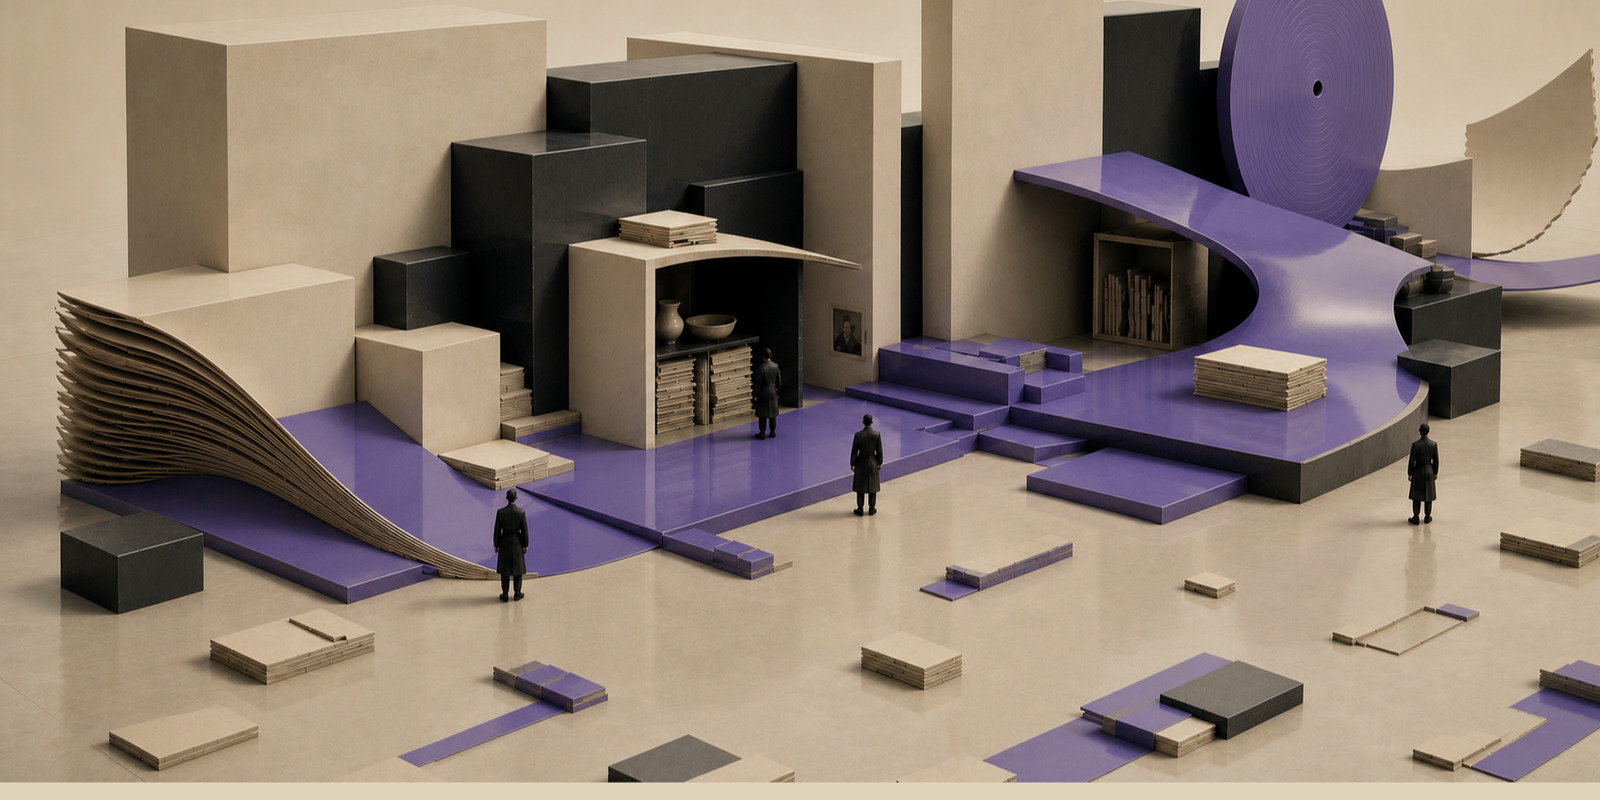
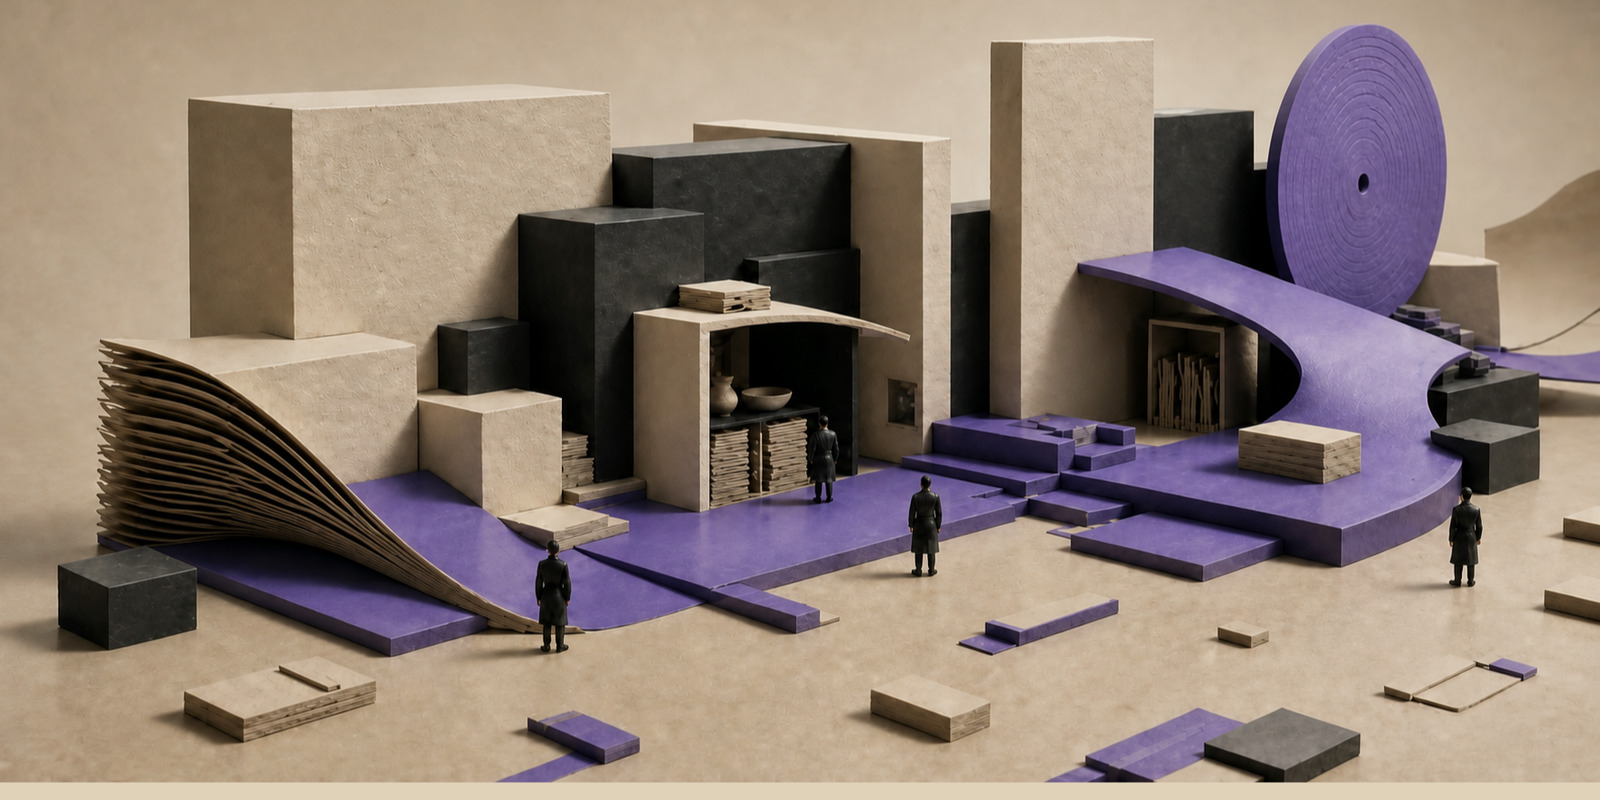
Let the final Series 05 material world become the public cover
The owner selected the tactile wide v11 panorama as the final Series 05 banner. Replace only the series cover, advance its cache key, and keep the three post heroes unchanged.

Constraint: Deploy on the exact current remote main without mixing other publication work.

Rejected: Publish the material board as an empty archive module in this commit | its Atlas meaning and public copy require a separate bounded design session.

Confidence: high

Scope-risk: narrow

Directive: Preserve the v11 source and material board for the Visual Atlas; do not treat the public JPEG as the only canonical artifact.

Tested: Series 05 cover checks 3/3, qa_gate failure 0 human-review 0, git diff --check, 1600x800 and SHA-256 verified.

Not-tested: Pre-existing series-nav cache-version assertion remains 1 failing test in the full 73-test suite.

diff --git a/series/onchain-storytelling/index.html b/series/onchain-storytelling/index.html
@@ -12,14 +12,14 @@
 <meta property="og:title" content="온체인 스토리텔링">
 <meta property="og:description" content="2023년 두 차례의 발표를 3년 뒤에 다시 쓴 포스팅 세 개. 창작의 주체가 어디로 옮겨가는가.">
 <meta property="og:url" content="https://kiheonshin.github.io/blog-post-assets/series/onchain-storytelling/">
-<meta property="og:image" content="https://kiheonshin.github.io/blog-post-assets/series/onchain-storytelling/assets/series-banner.jpg?v=20260808e">
-<meta property="og:image:secure_url" content="https://kiheonshin.github.io/blog-post-assets/series/onchain-storytelling/assets/series-banner.jpg?v=20260808e">
+<meta property="og:image" content="https://kiheonshin.github.io/blog-post-assets/series/onchain-storytelling/assets/series-banner.jpg?v=20260809a">
+<meta property="og:image:secure_url" content="https://kiheonshin.github.io/blog-post-assets/series/onchain-storytelling/assets/series-banner.jpg?v=20260809a">
 <meta property="og:image:type" content="image/jpeg">
 <meta property="og:image:width" content="1600">
 <meta property="og:image:height" content="800">
 <meta property="og:image:alt" content="밝은 보라색 면이 종이 기록 지형과 생활 공간을 지나 거대한 레코드로 이어지는 온체인 스토리텔링 파노라마">
 <meta name="twitter:card" content="summary_large_image">
-<meta name="twitter:image" content="https://kiheonshin.github.io/blog-post-assets/series/onchain-storytelling/assets/series-banner.jpg?v=20260808e">
+<meta name="twitter:image" content="https://kiheonshin.github.io/blog-post-assets/series/onchain-storytelling/assets/series-banner.jpg?v=20260809a">
 <script async src="https://www.googletagmanager.com/gtag/js?id=G-SQYBGPJFJ4"></script>
 <script>
 window.dataLayer=window.dataLayer||[];

diff --git a/assets/content-manifest.js b/assets/content-manifest.js
@@ -382,7 +382,7 @@ export const contentLibrary = {
       topics: ["기록과 서사", "IP와 정체성", "현실과 가상"],
       keywords: ["온체인 스토리텔링", "TBA", "캐릭터 설계", "코-크리에이션"],
       href: "series/onchain-storytelling/",
-      cover: "series/onchain-storytelling/assets/series-banner.jpg?v=20260808e",
+      cover: "series/onchain-storytelling/assets/series-banner.jpg?v=20260809a",
       coverAlt:
         "밝은 보라색 면이 종이 기록 지형과 생활 공간을 지나 거대한 레코드로 이어지는 온체인 스토리텔링 파노라마",
       published: "2026-08-06",
